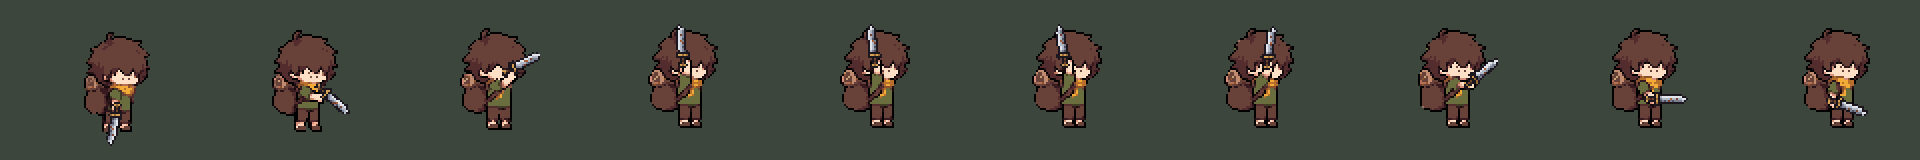
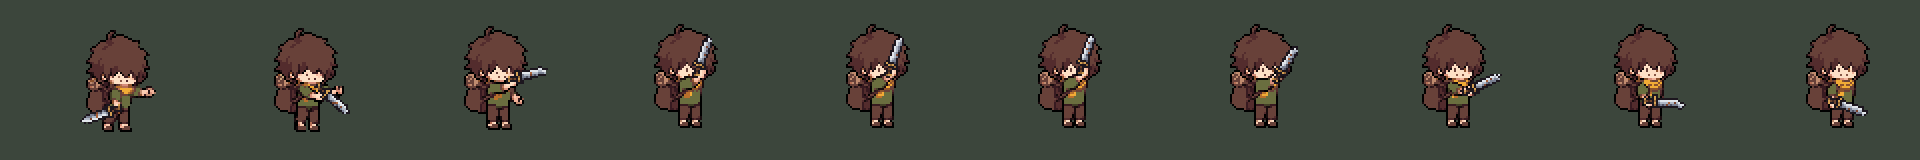
(추가) 올려베기 v8 생성(반대손 가드)과 v7·v8 F곡선 GIF
- skel/v8/up 10프레임, 프레임 0 칼 각도 보정(ANGLE_FIX)
- GIF: v7 내려베기, v8 올려베기, 3타 연결
- 검증: 칼 붙인 시트·GIF 자체 점검(인게임 미검증)

diff --git a/Tools/pixelfx/skel_keys.py b/Tools/pixelfx/skel_keys.py
@@ -30,6 +30,9 @@ KEYS = {
      ], []],
 }
 
+# 보간 각도가 칼끝을 바닥 아래로 보내는 프레임만 손으로 고친다(칼은 코드로 붙이므로 재생성 불필요)
+ANGLE_FIX = {"SwingUp": {0: -160}}
+
 
 def ss(t):
     return t * t * (3 - 2 * t)
@@ -58,7 +61,7 @@ def main():
         frames = a + b
         kps = [pose(*f[:10]) for f in frames]
         res[m] = {"kp": [norm(k) for k in kps], "hand": [[int(round(k["RIGHT ARM"][0])), int(round(k["RIGHT ARM"][1]))] for k in kps],
-                  "angle": [round(f[10], 1) for f in frames], "main": len(a)}
+                  "angle": [round(ANGLE_FIX.get(m, {}).get(i, f[10]), 1) for i, f in enumerate(frames)], "main": len(a)}
         print(m, len(frames), "main", len(a), res[m]["hand"])
     json.dump(res, open(sys.argv[1], "w"))
 

diff --git a/.claude-rules/Game/MotionRootCause.md b/.claude-rules/Game/MotionRootCause.md
@@ -126,3 +126,4 @@ GPT 2차 토론(`Docs/ArtCompare/Motion/cel/basic_sword/gpt_round2.md`) 요지: 
 - v7(10-27 사용자 "리틀 본 2개로, 찌르기는 문제없음"): skel_keys.py 의 SwingDown·SwingUp 키를 리틀 본 AttackA·B 자세로 교체 → `skel/keys_v7.json`. 다음: 두 동작 animate_with_skeleton_v3(각 3생성, "empty fist") → `skel/v7/down|up` → style_test 방식 GIF(F 곡선) → 합격 시 build_cel 적용.
 - v7 내려베기 job 2df6fb07-7cfb-4858-a72b-64502a3cca3c(9프레임) → skel/v7/down. 올려베기 v7 생성 남음(keys_v7.json SwingUp).
 - v7 점검: 내려베기 합격(준비 높게→앞 아래 내리침). 올려베기 v7 불합격 — 끝 자세가 얼굴 앞 수직 칼(한 팔 들기처럼 보임), 준비 칼끝이 바닥 아래. → v8 SwingUp(keys_v8.json): 끝 = 앞 위 70°(손은 턱 앞), 준비 칼 -170°, 반대손 가드(준비 때 앞으로 뻗고 칠 때 뒤로 당김). job b2c778ba-a23d-43b7-b7ab-11b1b8675a88 → skel/v8/up.
+- v8 올려베기 결과: 반대손 가드 들어감, 끝 자세 앞 위 칼. 보간 프레임 0 칼 각도(-105)가 칼끝을 바닥으로 보내서 ANGLE_FIX{SwingUp:{0:-160}}(skel_keys.py)로 고침. GIF: style_test/v7_SwingDown_F.gif, v8_SwingUp_F.gif, v8_3타_F.gif → 사용자 판정 대기.
